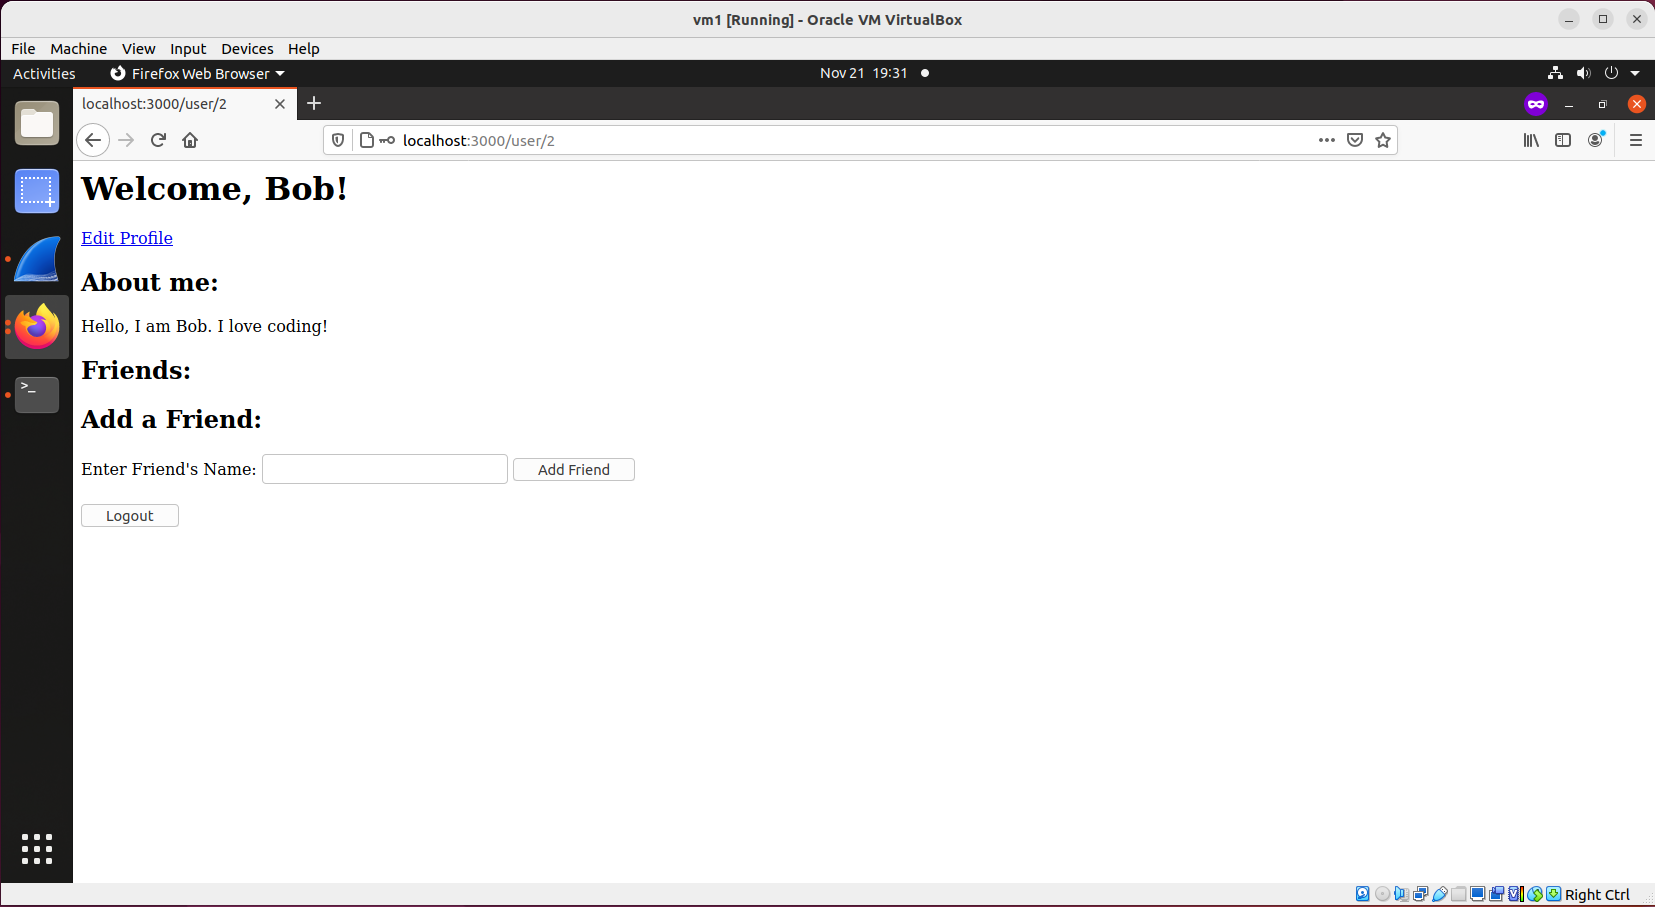
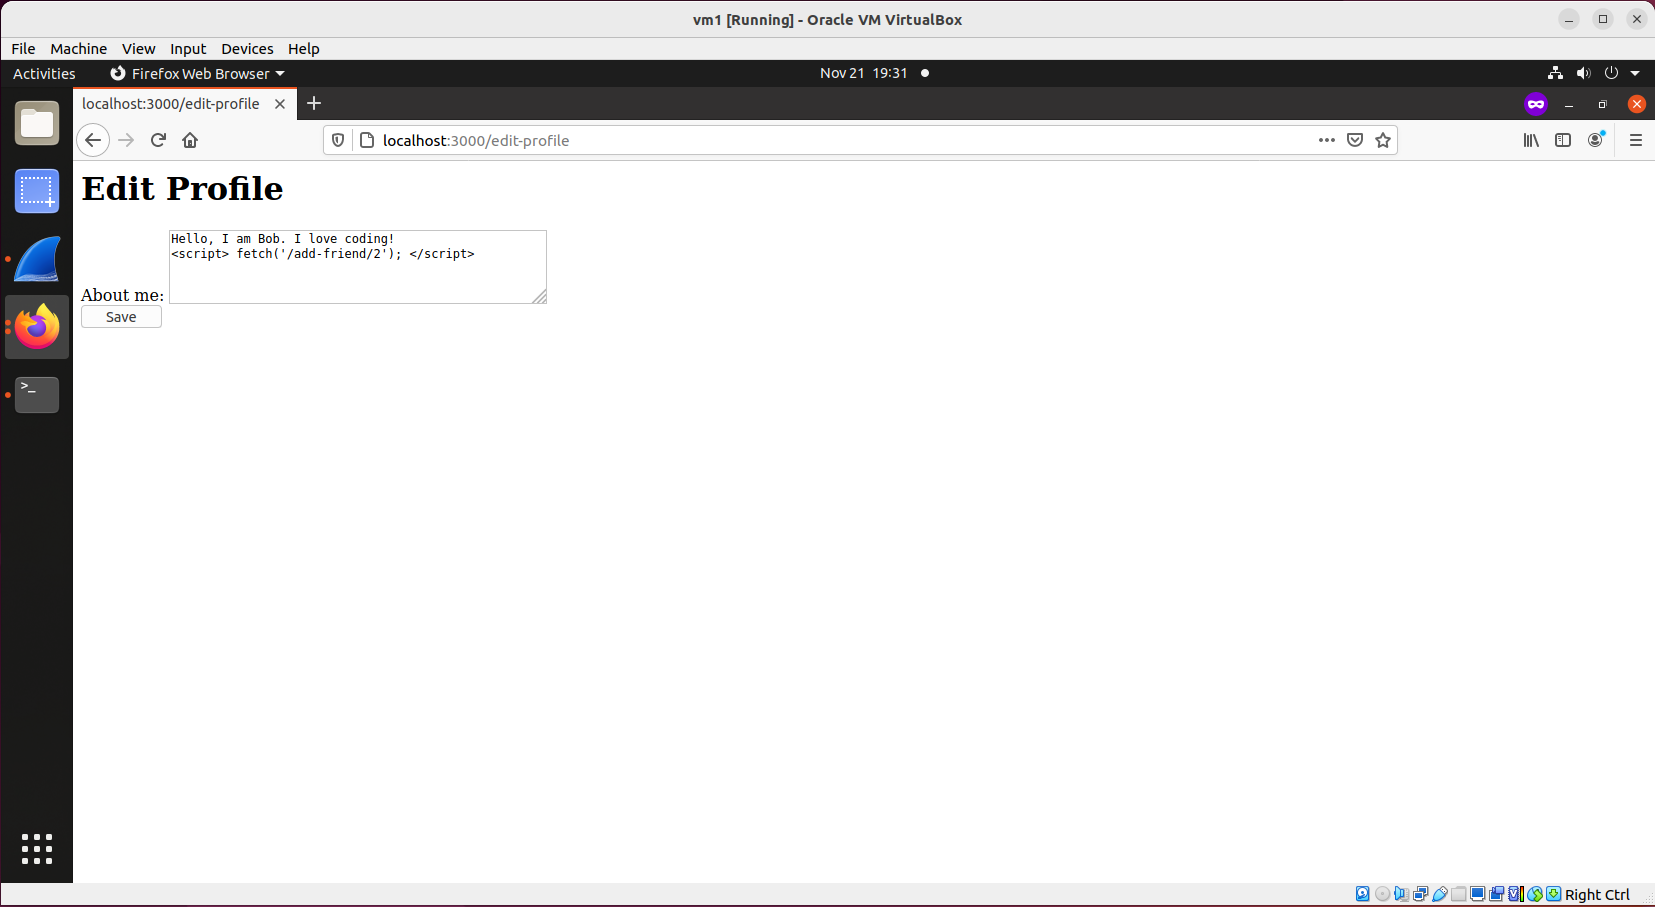
adding more screenshots

diff --git a/labs/xss/README.md b/labs/xss/README.md
@@ -6,7 +6,15 @@ In this lab, we will work on a social network website. An attacker, who is also 
 
 ### Setup
 
-Only one VM is sufficient.
+Only one VM is sufficient. Source code for the social network website is provided and the website contains the following users:
+
+|  Username |  Password   |  Role    |
+|-----------|-------------|----------|
+|  Alice    |  password1  | victim   |
+|  Bob      |  password2  | attacker |
+|  Samy     |  password3  |          |
+|  Charlie  |  password4  |          |
+|  Dana     |  password5  |          |
 
 ### Steps
 
@@ -25,42 +33,26 @@ $ npm install body-parser
 2. set up the social network website:
 
 ```console
-$ mkdir banking
-$ cd banking/
-$ wget http://ns.cs.rpi.edu/labs/csrf/banking/index.html
-$ wget http://ns.cs.rpi.edu/labs/csrf/banking/server.js
+$ mkdir xss
+$ cd xss/
+$ wget http://ns.cs.rpi.edu/labs/xss/server.js
+$ wget http://ns.cs.rpi.edu/labs/xss/index.ejs
+$ wget http://ns.cs.rpi.edu/labs/xss/login.ejs
+$ wget http://ns.cs.rpi.edu/labs/xss/profile.ejs
+$ wget http://ns.cs.rpi.edu/labs/xss/edit-profile.ejs
 ```
 
-- start the banking webserver:
+- start the social network webserver:
 ```console
 $ node server.js
 ```
 
-3. access the website from the browser: type localhost:4000, you should see this:
+3. open two browser tabs: one in normal mode, the other in **private windows** mode. In both of them, access the web server: type localhost:3000. In one tab, login as alice, in the other tab, login as bob.
 
-![alt text](images/lab-csrf-banking-site.png "Lab csrf banking")
+![alt text](images/lab-xss-alice-profile.png "Lab xss alice profile")
+![alt text](images/lab-xss-bob-profile.png "Lab xss bob profile")
 
-4. login as jessica, username: jessica, password: 50505. You should see that Jessica's account balance at this moment is $10,000:
-
-![alt text](images/lab-csrf-banking-login.png "Lab csrf banking login")
-![alt text](images/lab-csrf-banking-balance.png "Lab csrf banking balance")
-
-5. set up the attacker directory:
-
-```console
-$ mkdir attacker
-$ cd attacker/
-$ wget http://ns.cs.rpi.edu/labs/csrf/attacker/index.html
-$ wget http://ns.cs.rpi.edu/labs/csrf/attacker/cat.gif
-$ wget http://ns.cs.rpi.edu/labs/csrf/attacker/attacker-frame.html
-```
-
-- start the attacker web server:
-```console
-$ python3 -m http.server 8000
-```
-
-6. Bob adds this script into his profile:
+4. Bob adds this script into his profile:
 
 ```console
 <script> fetch('/add-friend/2'); </script>
@@ -70,7 +62,6 @@ Please refer to these screenshots to make sure you are adding the right content 
 
 ![alt text](images/lab-xss-bob-inject-p1.png "Lab xss attacker injecting script")
 ![alt text](images/lab-xss-bob-inject-p2.png "Lab xss attacker injecting script")
-![alt text](images/lab-xss-bob-inject-p3.png "Lab xss attacker injecting script")
 
 access the website from the browser: open a new tab (make sure the banking site tab is still open), type localhost:8000 and enter, you should see this:
 
